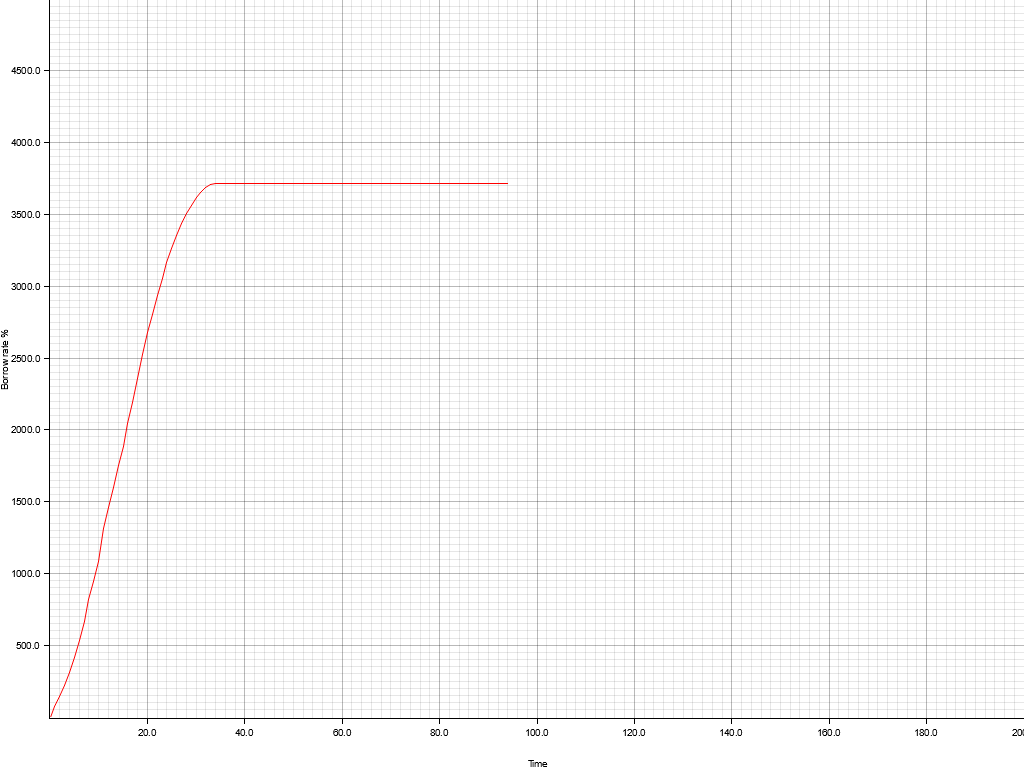
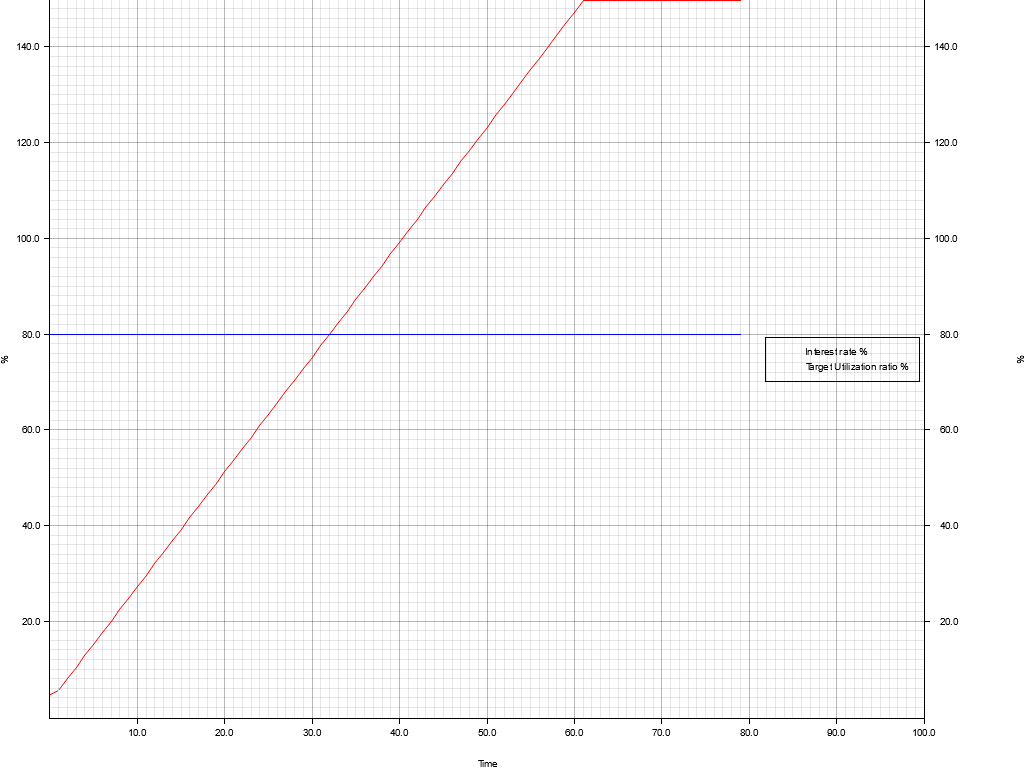
back some formulas

Changed region(s): [[0.0, 0.0, 1.0, 0.9688], [0.4688, 0.9688, 0.5, 1.0]]

diff --git a/frame/composable-traits/src/lending/tests.rs b/frame/composable-traits/src/lending/tests.rs
@@ -276,8 +276,8 @@ fn curve_model_plotter() {
 fn dynamic_pid_model_plotter() {
 	use plotters::prelude::*;
 	let proportional_parameter = FixedI128::saturating_from_integer(1);
-	let integral_parameter = FixedI128::saturating_from_integer(1);
-	let derivative_parameter = FixedI128::saturating_from_integer(1);
+	let integral_parameter = FixedI128::saturating_from_integer(3);
+	let derivative_parameter = FixedI128::saturating_from_integer(2);
 	let target_utilization = FixedU128::saturating_from_rational(80, 100);
 	let mut model =
 		DynamicPIDControllerModel::new(proportional_parameter, integral_parameter, derivative_parameter,  target_utilization).unwrap();
@@ -288,32 +288,56 @@ fn dynamic_pid_model_plotter() {
 	let mut chart = ChartBuilder::on(&area)
 		.set_label_area_size(LabelAreaPosition::Left, 50)
 		.set_label_area_size(LabelAreaPosition::Bottom, 50)
-		.build_cartesian_2d(0.0..200.0, 0.0..5000.0)
+		.set_label_area_size(LabelAreaPosition::Right, 100)
+		.build_cartesian_2d(0.0..100.0, 0.0..150.0)
 		.unwrap();
 	chart
 	.configure_mesh()
 	.x_desc("Time")
-	.y_desc("Borrow rate %")
+	.y_desc("%")
 	.draw().unwrap();
+
+
 	chart
 		.draw_series(LineSeries::new(
 			[
-				99, 55, 51, 57, 60, 66, 66, 66, 66, 77, 78, 50, 78, 88, 88, 90, 78, 79, 74, 74, 80,
-				90, 90, 90, 90, 90, 90, 90, 90, 90, 90, 90, 90, 90, 90, 99,90,90,90,90,90,90,			
-				90, 91, 90, 91, 90, 91, 90, 91, 90, 91, 92, 90, 90, 90, 90, 90, 90, 90, 90, 90, 90,
-				90, 90, 90, 90, 90, 90, 90, 90, 90, 90, 90, 90, 90, 90, 90, 90, 90, 90, 90, 90, 90, 67,
-				66, 65, 64, 63, 62, 61, 50, 50, 40, 30,
+				0, 80, 80, 80, 80, 80, 80, 80, 80, 80, 80, 80, 80, 80, 80, 80, 80, 80, 80, 80,
+				80, 80, 80, 80, 80, 80, 80, 80, 80, 80, 80, 80, 80, 80, 80, 80, 80, 80, 80, 80,
+				80, 80, 80, 80, 80, 80, 80, 80, 80, 80, 80, 80, 80, 80, 80, 80, 80, 80, 80, 80,
+				80, 80, 80, 80, 80, 80, 80, 80, 80, 80, 80, 80, 80, 80, 80, 80, 80, 80, 80, 80,				
 			]
 			.iter()
 			.enumerate()
 			.map(|(i, x)| {
 				let utilization = Percent::from_percent(*x);
 				let rate = model.get_borrow_rate(utilization).unwrap();
-				(i as f64, rate.to_float() * 100.0)
+				(i as f64, rate.to_float() )
 			}),
 			&RED,
 		))
-		.unwrap();
+		.unwrap()
+		.label("Interest rate %");
+
+
+	chart
+		.draw_series(LineSeries::new(
+			[
+				80, 80, 80, 80, 80, 80, 80, 80, 80, 80, 80, 80, 80, 80, 80, 80, 80, 80, 80, 80,
+				80, 80, 80, 80, 80, 80, 80, 80, 80, 80, 80, 80, 80, 80, 80, 80, 80, 80, 80, 80,
+				80, 80, 80, 80, 80, 80, 80, 80, 80, 80, 80, 80, 80, 80, 80, 80, 80, 80, 80, 80,
+				80, 80, 80, 80, 80, 80, 80, 80, 80, 80, 80, 80, 80, 80, 80, 80, 80, 80, 80, 80,	
+			]
+			.iter()
+			.enumerate()
+			.map(|(i, x)| {
+				(i as f64, *x as f64)
+			}),
+			&BLUE,
+		))
+		.unwrap()
+		.label("Target Utilization ratio %");
+
+		chart.configure_series_labels().border_style(&BLACK).draw().unwrap();
 }
 
 #[cfg(feature = "visualization")]

diff --git a/frame/composable-traits/src/lending/math.rs b/frame/composable-traits/src/lending/math.rs
@@ -295,11 +295,17 @@ impl DynamicPIDControllerModel {
 		// compute u(t), control value `ut = pt + it + dt`
 		let ut = pt + it + dt;
 		// update interest_rate `ir = ir_t_1 + ut`
+		if ut.is_negative() {
+			let ut = ut.neg();
+			self.previous_interest_rate = self
+				.previous_interest_rate
+				.saturating_sub(FixedU128::from_inner(ut.into_inner().try_into().unwrap_or(0u128)));
+		} else {
+			self.previous_interest_rate = self
+				.previous_interest_rate
+				.saturating_add(FixedU128::from_inner(ut.into_inner().try_into().unwrap_or(0u128)));
+		}
 
-
-		self.previous_interest_rate = FixedU128::from_inner(self
-			.previous_interest_rate.into_inner().try_into().unwrap_or(0i128)
-			.saturating_add(&ut).into_inner().try_into().unwrap_or(0u128));
 		Ok(self.previous_interest_rate)
 	}
 
